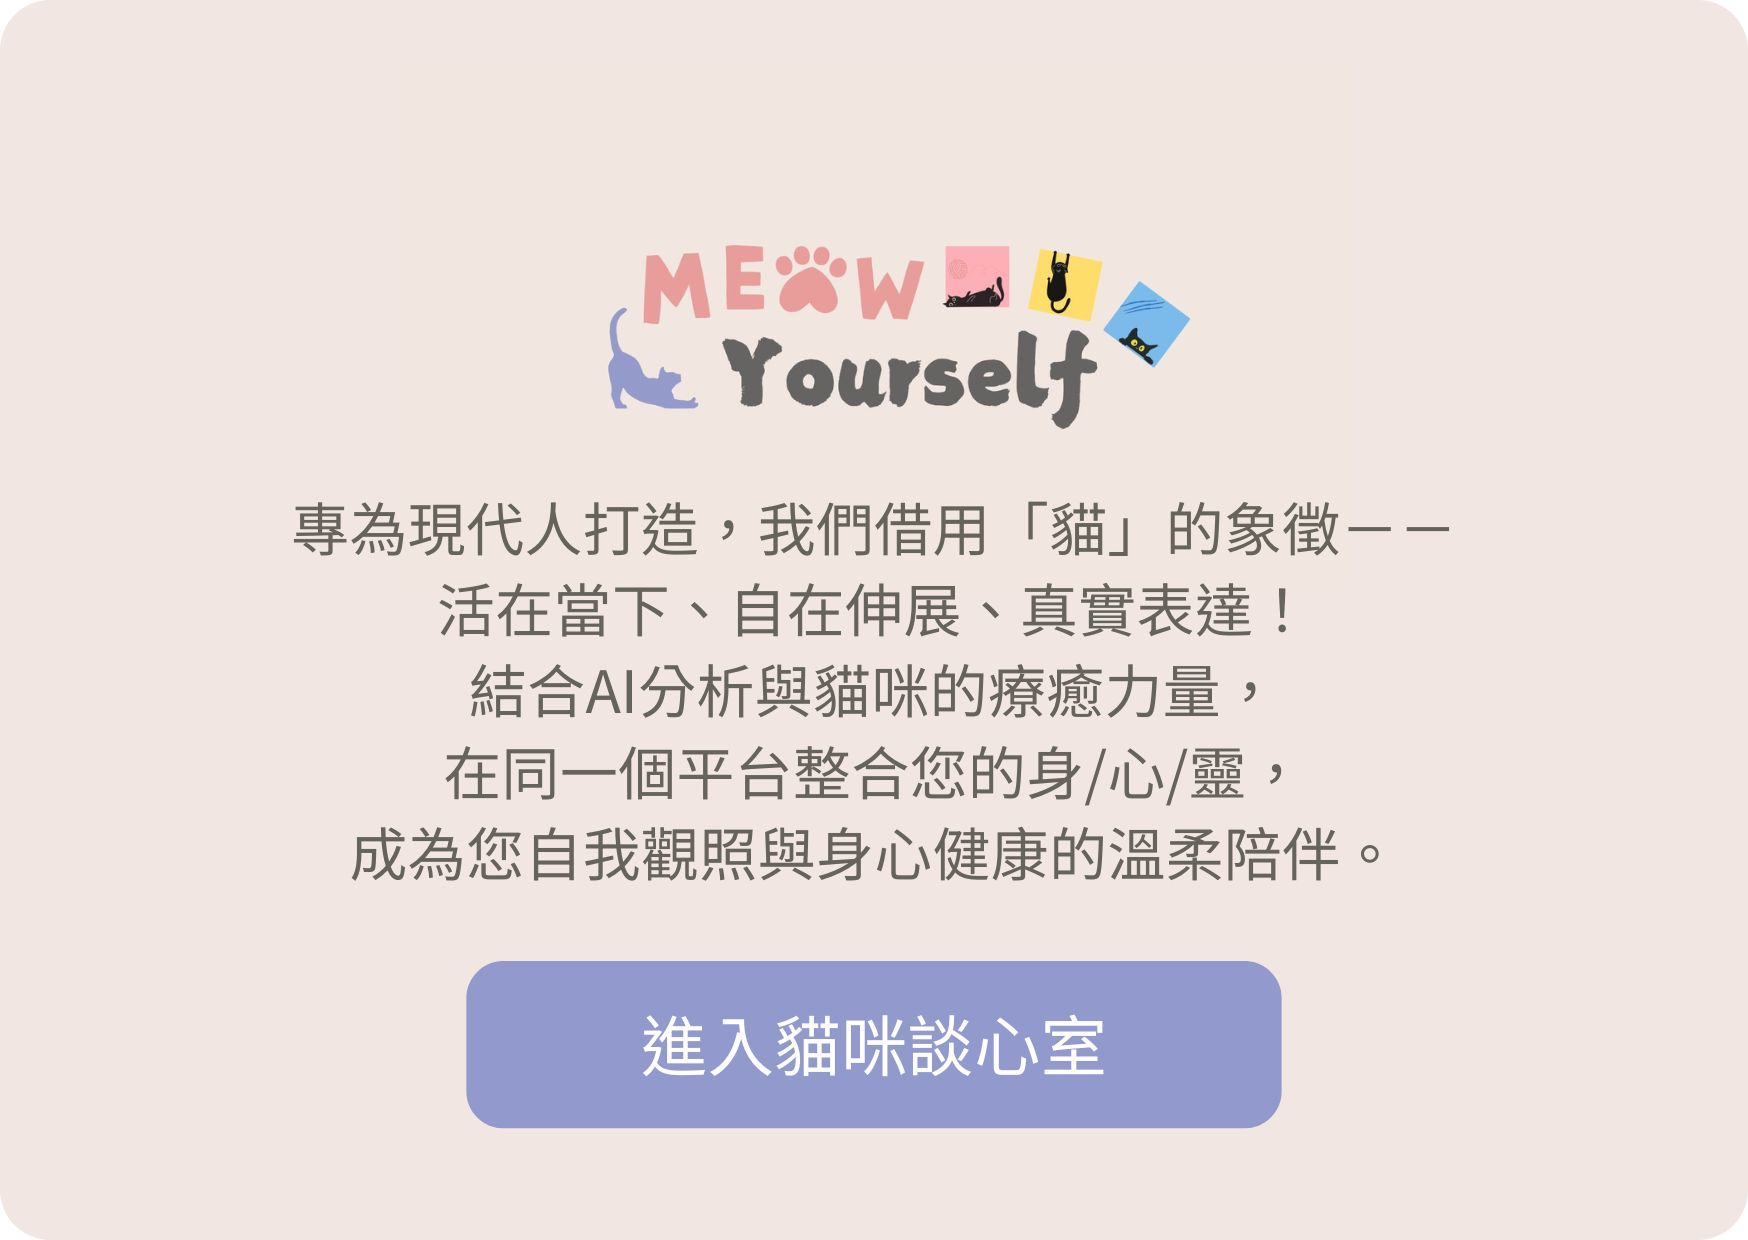
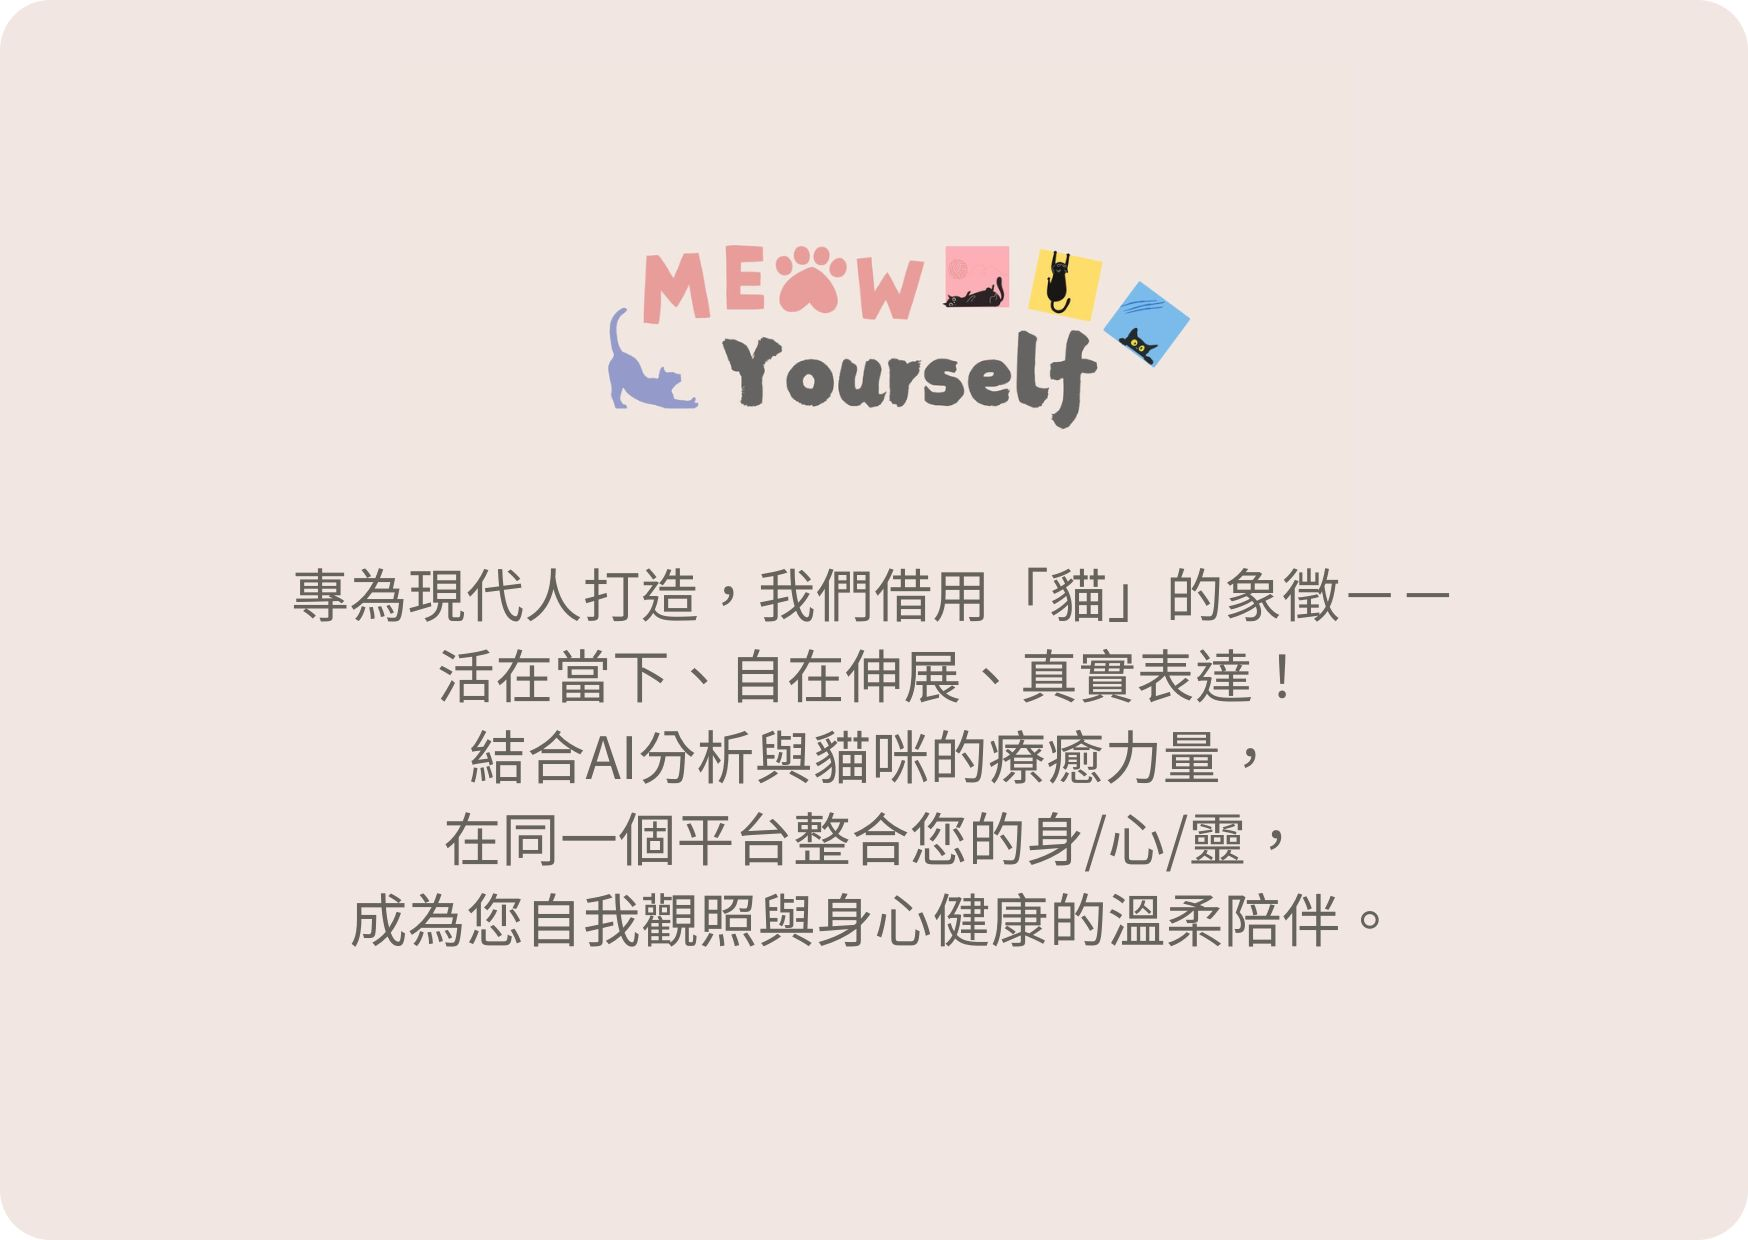
修改P2-P4、新增品牌介紹彈出視窗

Changed region(s): [[0.1545, 0.3984, 0.7723, 0.9194]]

diff --git a/templates/psychology_test.html b/templates/psychology_test.html
@@ -138,6 +138,23 @@
             }
         }
 
+        /* GALING 品牌介紹視窗彈出10/04 */
+        .brand-intro-modal {
+            background: rgba(32, 24, 50, 0.72);
+        }
+        /* GALING 品牌介紹視窗彈出10/04 */
+        .brand-intro-card {
+            max-width: 480px;
+            width: min(92%, 480px);
+            background: #fff8f3;
+        }
+        /* GALING 品牌介紹視窗彈出10/04 */
+        .brand-intro-card img {
+            width: 100%;
+            height: auto;
+            display: block;
+        }
+
         /* GALING 調整喵奶奶頭像52px/48px 10/04 */
         .grandma-avatar, .reporter-avatar {
             width: 52px;
@@ -361,6 +378,17 @@
         </div>
     </div>
     
+    <!-- GALING 品牌介紹視窗彈出10/04 -->
+    <div id="brand-intro-modal" class="fixed inset-0 brand-intro-modal flex items-center justify-center p-6 z-50 hidden opacity-0 transition-opacity duration-300">
+        <div id="brand-intro-card" class="brand-intro-card rounded-3xl shadow-2xl overflow-hidden transform scale-95 transition-transform duration-300 relative">
+            <button type="button" id="brand-intro-close" class="absolute top-4 right-4 bg-white/80 hover:bg-white text-gray-600 rounded-full p-2 shadow-md transition" aria-label="關閉品牌介紹視窗">×</button>
+            <img src="{{ url_for('static', filename='window.jpg') }}" alt="品牌介紹">
+            <div class="p-6 bg-white/90 backdrop-blur-sm">
+                <button id="brand-intro-enter-btn" class="w-full bg-gradient-to-r from-orange-400 to-orange-500 text-white font-semibold py-3 rounded-full shadow-lg hover:shadow-xl transition">進入貓咪談心室</button>
+            </div>
+        </div>
+    </div>
+
     <!-- Custom Confirmation Modal -->
     <div id="confirm-modal" class="fixed inset-0 bg-black bg-opacity-40 flex items-center justify-center p-4 z-50 hidden transition-opacity duration-300 opacity-0">
         <div class="bg-white rounded-2xl shadow-xl p-8 max-w-sm w-full transform transition-transform duration-300 scale-95">
@@ -398,6 +426,14 @@
         const sendButton = document.getElementById('send-button');
         const sendIcon = document.getElementById('send-icon');
         const quickRepliesContainer = document.getElementById('quick-replies-container');
+        // GALING 品牌介紹視窗彈出10/04
+        const brandIntroModal = document.getElementById('brand-intro-modal');
+        // GALING 品牌介紹視窗彈出10/04
+        const brandIntroCard = document.getElementById('brand-intro-card');
+        // GALING 品牌介紹視窗彈出10/04
+        const brandIntroEnterBtn = document.getElementById('brand-intro-enter-btn');
+        // GALING 品牌介紹視窗彈出10/04
+        const brandIntroCloseBtn = document.getElementById('brand-intro-close');
         const reportSummary = document.getElementById('report-summary');
         const confirmModal = document.getElementById('confirm-modal');
         const confirmReturnBtn = document.getElementById('confirm-return-btn');
@@ -503,6 +539,28 @@
             });
         }
 
+        // GALING 品牌介紹視窗彈出10/04
+        function showBrandIntroModal() {
+            if (!brandIntroModal || !brandIntroCard) return;
+            brandIntroModal.classList.remove('hidden');
+            requestAnimationFrame(() => {
+                brandIntroModal.classList.remove('opacity-0');
+                brandIntroCard.classList.remove('scale-95');
+            });
+        }
+
+        // GALING 品牌介紹視窗彈出10/04
+        function closeBrandIntroModal() {
+            if (!brandIntroModal || !brandIntroCard) return;
+            brandIntroModal.classList.add('opacity-0');
+            brandIntroCard.classList.add('scale-95');
+            setTimeout(() => {
+                if (brandIntroModal.classList.contains('opacity-0')) {
+                    brandIntroModal.classList.add('hidden');
+                }
+            }, 300);
+        }
+
         function initSelectionBubbleEffects() {
             selectionModeCards.forEach(card => {
                 const effect = createSelectionBubbleEffect(card);
@@ -564,6 +622,33 @@
             isDesktopDevice = detectDesktopDevice();
             resolvedPlaceholderText = isDesktopDevice ? DESKTOP_PLACEHOLDER_MESSAGE : MOBILE_PLACEHOLDER_MESSAGE;
             messageInput.placeholder = resolvedPlaceholderText;
+
+            // GALING 品牌介紹視窗彈出10/04
+            if (brandIntroEnterBtn) {
+                brandIntroEnterBtn.addEventListener('click', (event) => {
+                    event.stopPropagation();
+                    closeBrandIntroModal();
+                });
+            }
+            // GALING 品牌介紹視窗彈出10/04
+            if (brandIntroCloseBtn) {
+                brandIntroCloseBtn.addEventListener('click', (event) => {
+                    event.stopPropagation();
+                    closeBrandIntroModal();
+                });
+            }
+            // GALING 品牌介紹視窗彈出10/04
+            if (brandIntroCard) {
+                brandIntroCard.addEventListener('click', (event) => event.stopPropagation());
+            }
+            // GALING 品牌介紹視窗彈出10/04
+            if (brandIntroModal) {
+                brandIntroModal.addEventListener('click', closeBrandIntroModal);
+            }
+            // GALING 品牌介紹視窗彈出10/04
+            if (healthReportData && brandIntroModal && brandIntroCard) {
+                showBrandIntroModal();
+            }
 
             messageInput.addEventListener('keydown', (e) => {
                 if (e.key === 'Enter' && (e.metaKey || e.ctrlKey)) {
